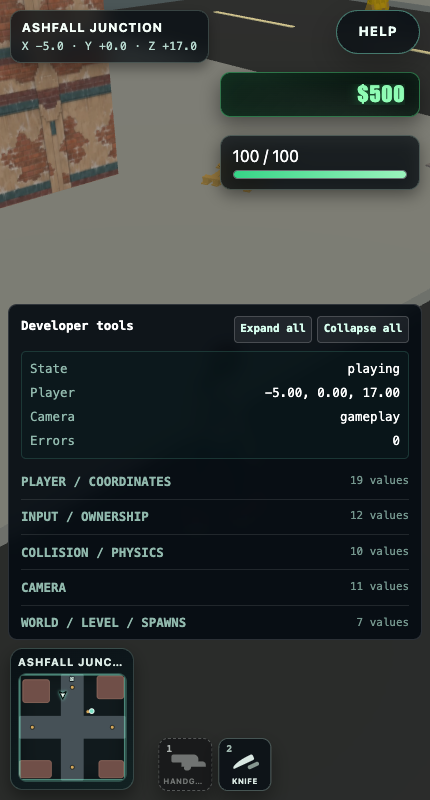
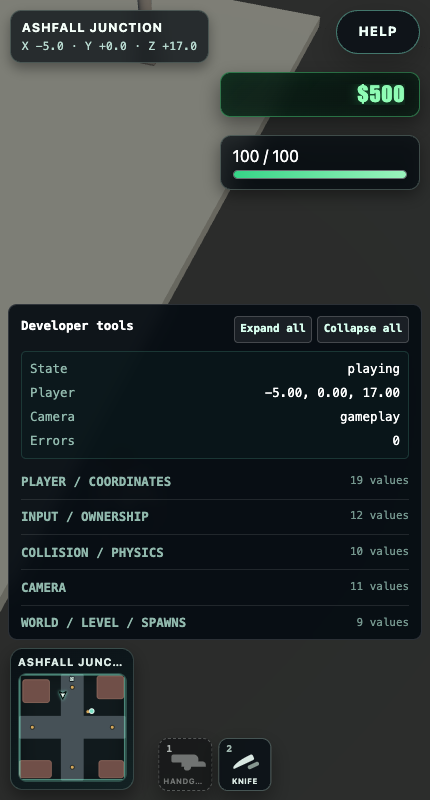
fix: compose building lab with time-of-day lighting

diff --git a/src/sandbox/scenarios/buildingVisualLab.ts b/src/sandbox/scenarios/buildingVisualLab.ts
@@ -4,6 +4,7 @@ import {
   Box3,
   Box3Helper,
   BoxGeometry,
+  Color,
   DirectionalLight,
   EdgesGeometry,
   GridHelper,
@@ -166,6 +167,9 @@ class BuildingVisualLabSystem implements GameSystem {
   }
 
   private configureScene(): void {
+    // Sandboxes own their preview environment; gameplay lighting is provided
+    // separately by TimeOfDayLightingSystem.
+    this.context.scene.background = new Color(0x92a8b8);
     const ambient = new AmbientLight(0xaec8d0, 1.45);
     ambient.name = 'building-lab:ambient';
     const sun = new DirectionalLight(0xffdfb4, 2.4);